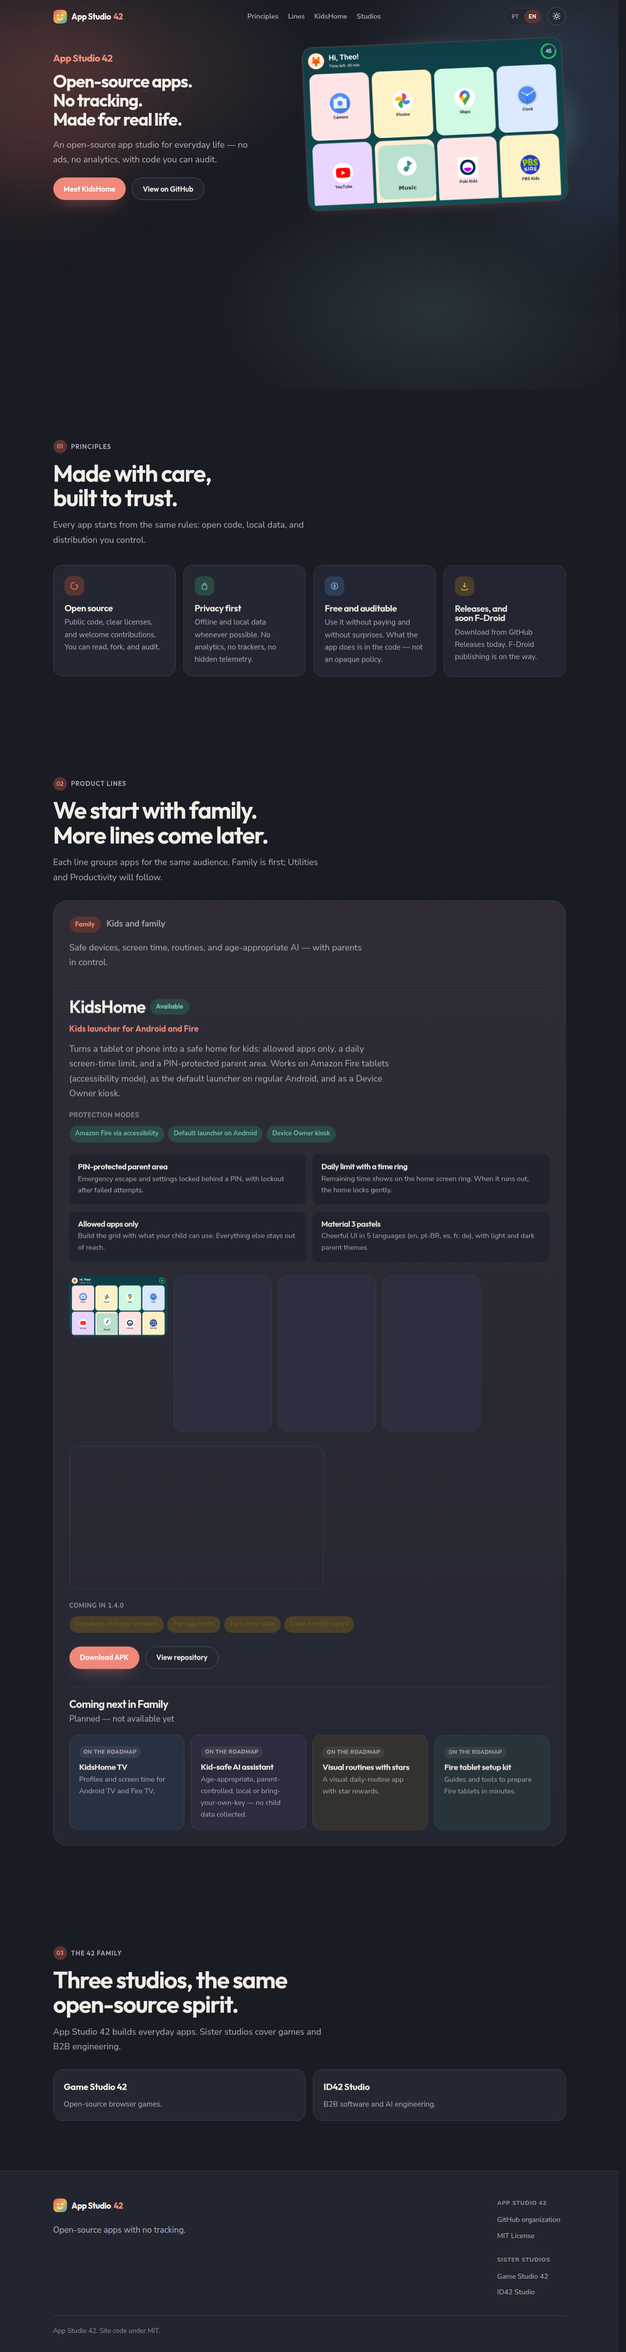
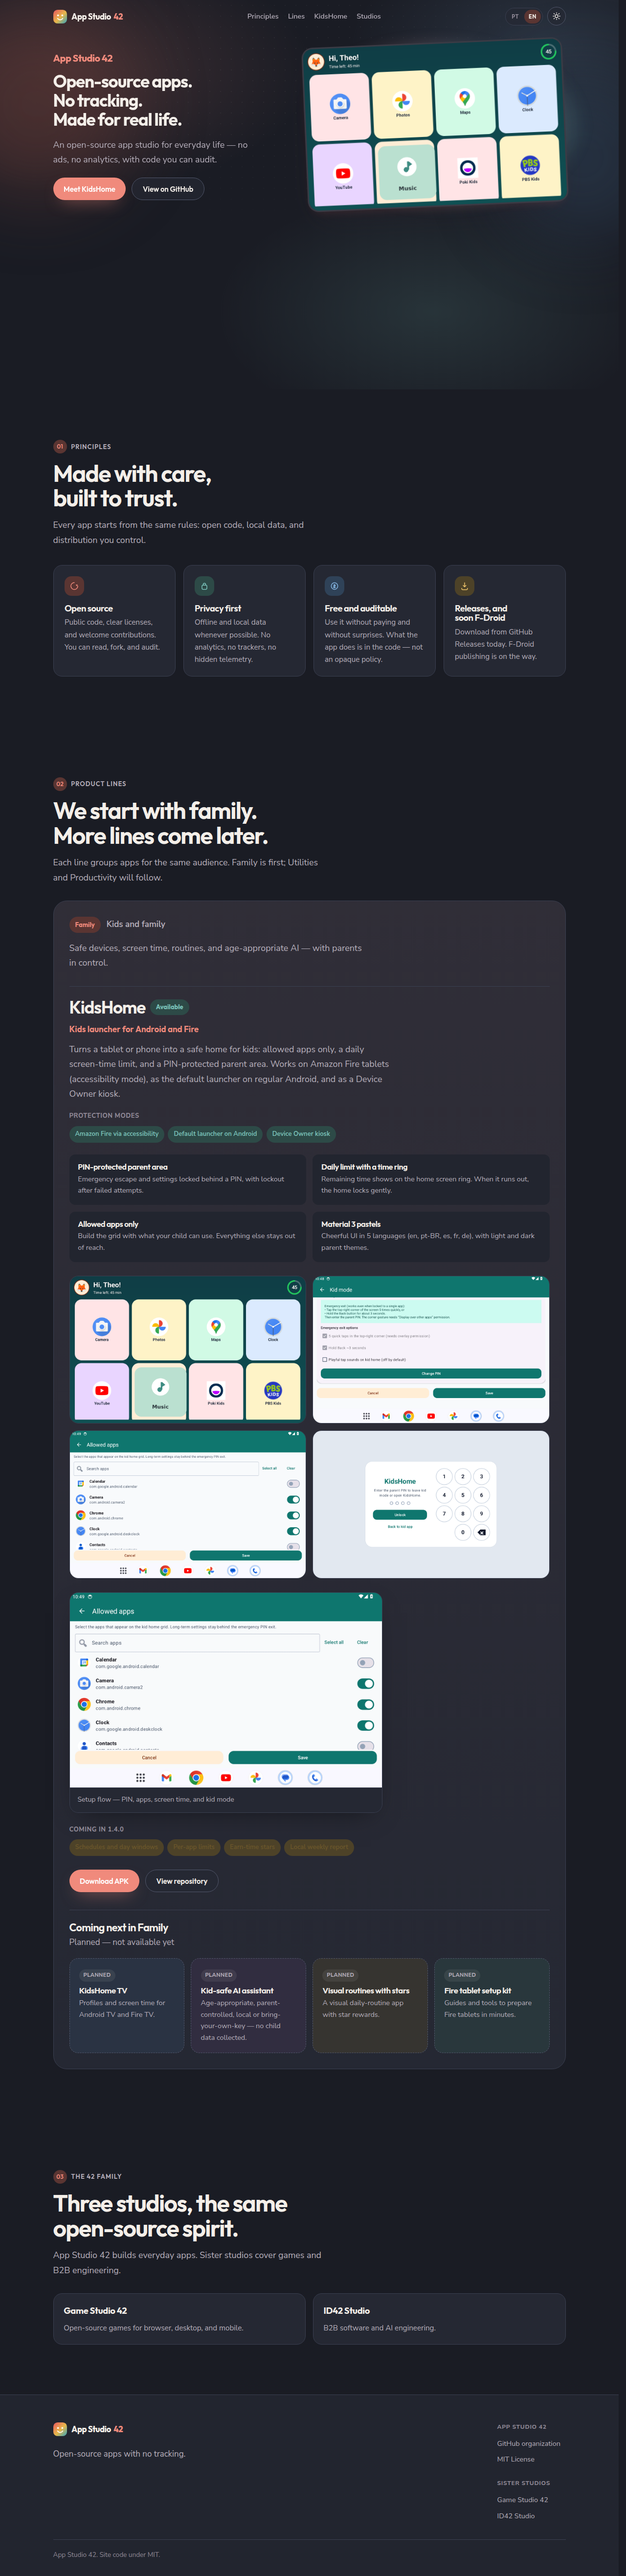
Fix KidsHome gallery layout and polish pt-BR copy
Use a landscape 16:10 screenshot grid with eager-loaded assets, give the
setup GIF its own frame, translate leftover English labels on the pt-BR
page, and describe Game Studio 42 as open-source games across platforms.

diff --git a/src/i18n/pt-BR.ts b/src/i18n/pt-BR.ts
@@ -2,9 +2,9 @@ import type { SiteContent } from "./types";
 
 export const ptBR: SiteContent = {
   meta: {
-    title: "App Studio 42 — apps open source sem rastreamento",
+    title: "App Studio 42 — apps de código aberto sem rastreamento",
     description:
-      "App Studio 42 faz apps open source sem anúncios e sem rastreamento. Começamos pela linha Family: KidsHome e apps seguros para crianças e famílias.",
+      "App Studio 42 faz apps de código aberto sem anúncios e sem rastreamento. Começamos pela linha Família: KidsHome e apps seguros para crianças e famílias.",
     ogLocale: "pt_BR",
   },
   a11y: {
@@ -26,9 +26,9 @@ export const ptBR: SiteContent = {
   ],
   hero: {
     brand: "App Studio 42",
-    title: "Apps open source.\nSem rastreamento.\nPara a vida real.",
+    title: "Código aberto.\nSem rastreamento.\nPara a vida real.",
     tagline:
-      "Um estúdio open source de apps para o dia a dia — sem anúncios, sem analytics, com código que você pode auditar.",
+      "Um estúdio de apps de código aberto para o dia a dia — sem anúncios, sem analytics, com código que você pode auditar.",
     ctaPrimary: "Conhecer KidsHome",
     ctaSecondary: "Ver no GitHub",
   },
@@ -41,13 +41,13 @@ export const ptBR: SiteContent = {
     items: [
       {
         id: "open-source",
-        title: "Open source",
-        text: "Código público, licenças claras e contribuições bem-vindas. Você pode ler, fork e auditar.",
+        title: "Código aberto",
+        text: "Código público, licenças claras e contribuições bem-vindas. Você pode ler, modificar e auditar.",
       },
       {
         id: "privacy",
         title: "Privacidade primeiro",
-        text: "Dados offline e locais quando possível. Sem analytics, sem trackers, sem telemetria escondida.",
+        text: "Dados offline e locais quando possível. Sem analytics, sem rastreadores, sem telemetria escondida.",
       },
       {
         id: "free",
@@ -56,8 +56,8 @@ export const ptBR: SiteContent = {
       },
       {
         id: "distribute",
-        title: "Releases e, em breve, F-Droid",
-        text: "Baixe pelos GitHub Releases hoje. Estamos preparando a publicação no F-Droid.",
+        title: "Lançamentos e, em breve, F-Droid",
+        text: "Baixe pelos lançamentos do GitHub hoje. Estamos preparando a publicação no F-Droid.",
       },
     ],
   },
@@ -66,12 +66,12 @@ export const ptBR: SiteContent = {
     eyebrow: "Linhas de produto",
     title: "Começamos pela família. Outras linhas vêm depois.",
     subtitle:
-      "Cada linha agrupa apps com o mesmo público. Family é a primeira; Utilities e Productivity virão a seguir.",
+      "Cada linha agrupa apps com o mesmo público. Família é a primeira; Utilitários e Produtividade virão a seguir.",
     availableLabel: "Disponível",
-    plannedLabel: "No roadmap",
+    plannedLabel: "Planejado",
     catalog: {
       family: {
-        name: "Family",
+        name: "Família",
         tagline: "Crianças e família",
         description:
           "Dispositivos seguros, tempo de tela, rotinas e IA adequada à idade — com os pais no controle.",
@@ -118,11 +118,12 @@ export const ptBR: SiteContent = {
             },
             ctaDownload: "Baixar APK",
             ctaRepo: "Ver repositório",
-            upcomingLabel: "Chegando no 1.4.0",
+            upcomingLabel: "Chegando na 1.4.0",
             modesLabel: "Modos de proteção",
+            setupCaption: "Fluxo de configuração — PIN, apps, tempo de tela e modo criança",
           },
         },
-        roadmapTitle: "Em seguida na Family",
+        roadmapTitle: "Em breve na linha Família",
         roadmapHint: "Planejado — ainda não disponível",
         roadmap: {
           "kidshome-tv": {
@@ -138,7 +139,7 @@ export const ptBR: SiteContent = {
             text: "App visual de rotinas diárias com recompensas em estrelas.",
           },
           "fire-setup-kit": {
-            title: "Kit de setup Fire",
+            title: "Kit de configuração Fire",
             text: "Guia e ferramentas para preparar tablets Fire em minutos.",
           },
         },
@@ -147,11 +148,11 @@ export const ptBR: SiteContent = {
   },
   sisters: {
     eyebrow: "Família 42",
-    title: "Três estúdios, o mesmo espírito open source.",
+    title: "Três estúdios, o mesmo espírito de código aberto.",
     subtitle: "App Studio 42 faz apps para o dia a dia. As irmãs cobrem jogos e engenharia B2B.",
     items: {
       gamestudio42: {
-        blurb: "Jogos open source para o navegador.",
+        blurb: "Jogos open source para navegador, desktop e celular.",
       },
       id42studio: {
         blurb: "Software e engenharia de IA para empresas.",
@@ -159,7 +160,7 @@ export const ptBR: SiteContent = {
     },
   },
   footer: {
-    tagline: "Apps open source sem rastreamento.",
+    tagline: "Apps de código aberto sem rastreamento.",
     org: "Organização no GitHub",
     license: "Licença MIT",
     sistersLabel: "Estúdios irmãos",

diff --git a/src/styles/global.css b/src/styles/global.css
@@ -752,23 +752,52 @@
   color: var(--color-muted);
 }
 
-.shot-rail {
+.shot-grid {
   display: grid;
-  grid-auto-flow: column;
-  grid-auto-columns: minmax(160px, 200px);
+  grid-template-columns: 1fr;
   gap: 0.85rem;
-  overflow-x: auto;
-  padding-bottom: 0.4rem;
-  scroll-snap-type: x mandatory;
-  -webkit-overflow-scrolling: touch;
 }
 
-.shot-rail img {
-  width: 100%;
+.shot-card {
+  margin: 0;
   border-radius: 18px;
+  overflow: hidden;
   border: 1px solid var(--color-line);
-  scroll-snap-align: start;
   background: var(--color-surface-2);
+  aspect-ratio: 16 / 10;
+}
+
+.shot-card img {
+  width: 100%;
+  height: 100%;
+  object-fit: cover;
+  display: block;
+}
+
+.setup-frame {
+  margin: 0;
+  max-width: 40rem;
+  border-radius: 18px;
+  overflow: hidden;
+  border: 1px solid var(--color-line);
+  background: var(--color-surface-2);
+  box-shadow: var(--shadow-soft);
+}
+
+.setup-frame img {
+  width: 100%;
+  height: auto;
+  display: block;
+  aspect-ratio: 16 / 10;
+  object-fit: cover;
+}
+
+.setup-frame figcaption {
+  padding: 0.75rem 1rem 0.9rem;
+  font-size: 0.875rem;
+  color: var(--color-muted);
+  background: var(--color-surface);
+  border-top: 1px solid var(--color-line);
 }
 
 .mode-row,
@@ -975,6 +1004,10 @@
     grid-template-columns: repeat(2, minmax(0, 1fr));
   }
 
+  .shot-grid {
+    grid-template-columns: repeat(2, minmax(0, 1fr));
+  }
+
   .roadmap-grid,
   .sister-grid {
     grid-template-columns: repeat(2, minmax(0, 1fr));
@@ -1015,6 +1048,10 @@
 
   .principle-grid {
     grid-template-columns: repeat(4, minmax(0, 1fr));
+  }
+
+  .shot-grid {
+    grid-template-columns: repeat(2, minmax(0, 1fr));
   }
 
   .roadmap-grid {

diff --git a/src/i18n/en.ts b/src/i18n/en.ts
@@ -68,7 +68,7 @@ export const en: SiteContent = {
     subtitle:
       "Each line groups apps for the same audience. Family is first; Utilities and Productivity will follow.",
     availableLabel: "Available",
-    plannedLabel: "On the roadmap",
+    plannedLabel: "Planned",
     catalog: {
       family: {
         name: "Family",
@@ -120,6 +120,7 @@ export const en: SiteContent = {
             ctaRepo: "View repository",
             upcomingLabel: "Coming in 1.4.0",
             modesLabel: "Protection modes",
+            setupCaption: "Setup flow — PIN, apps, screen time, and kid mode",
           },
         },
         roadmapTitle: "Coming next in Family",
@@ -151,7 +152,7 @@ export const en: SiteContent = {
     subtitle: "App Studio 42 builds everyday apps. Sister studios cover games and B2B engineering.",
     items: {
       gamestudio42: {
-        blurb: "Open-source browser games.",
+        blurb: "Open-source games for browser, desktop, and mobile.",
       },
       id42studio: {
         blurb: "B2B software and AI engineering.",

diff --git a/scripts/og-card.html b/scripts/og-card.html
@@ -81,8 +81,8 @@
         </div>
         <div class="name">App Studio <span>42</span></div>
       </div>
-      <h1 id="title">Apps open source.\nSem rastreamento.\nPara a vida real.</h1>
-      <p class="sub" id="sub">Sem anúncios. Código auditável. Começando pela linha Family.</p>
+      <h1 id="title">Código aberto.\nSem rastreamento.\nPara a vida real.</h1>
+      <p class="sub" id="sub">Sem anúncios. Código auditável. Começando pela linha Família.</p>
     </div>
     <script>
       const en = location.hash === "#en";

diff --git a/src/i18n/types.ts b/src/i18n/types.ts
@@ -23,6 +23,7 @@ export interface AppCopy {
   ctaRepo: string;
   upcomingLabel: string;
   modesLabel: string;
+  setupCaption?: string;
 }
 
 export interface RoadmapCopy {
